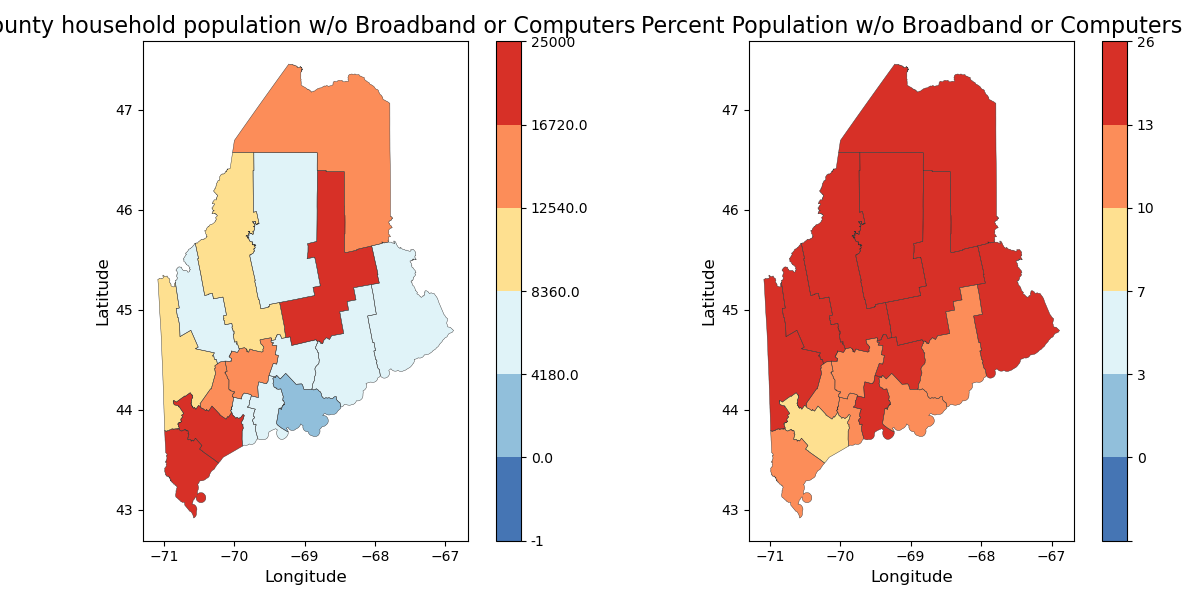
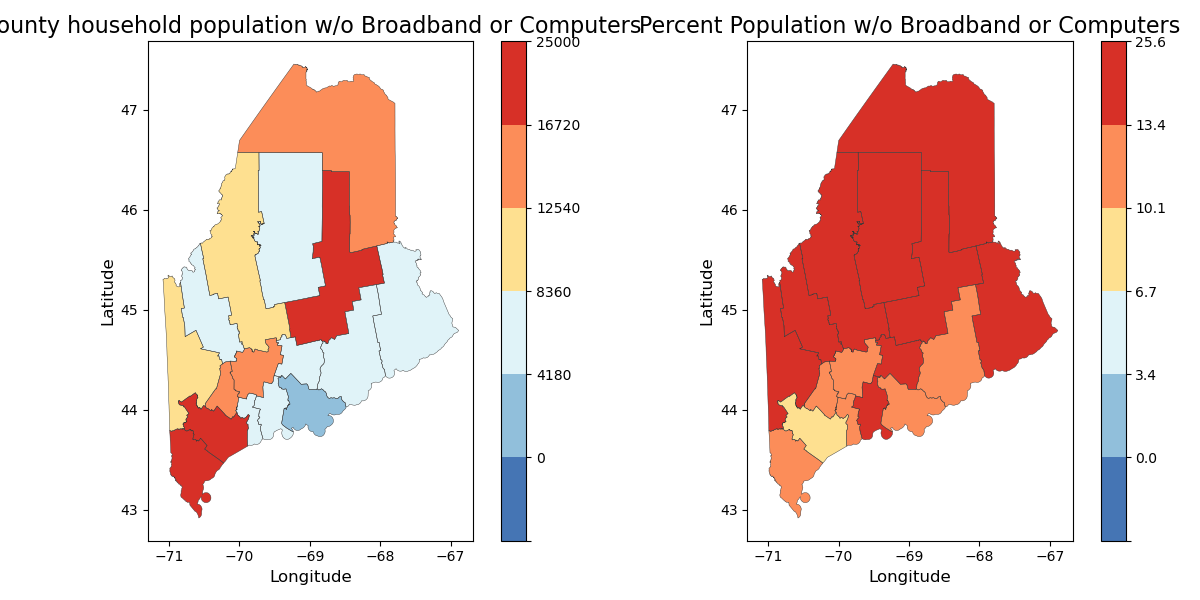
final color change

diff --git a/src/make_county_plots.py b/src/make_county_plots.py
@@ -45,12 +45,12 @@ def make_plot(gpd_obj, plot_obj):
     color_bins_pop.append(max_val)  # Include the maximum value
     color_bins_pct = [i * interval2 for i in range(len(color_list)-1)]
     color_bins_pct.append(max_val2)  # Include the maximum value
-
+    
     # Add a negative lower boundary (adjust as needed)
     lower_boundary = -1
     color_bins_pop.insert(0, lower_boundary)
     color_bins_pct.insert(0, lower_boundary)
-    
+
     # Plotting combined data
     cmap_pop = mpl.colors.ListedColormap(color_list)
     norm_pop = mpl.colors.BoundaryNorm(color_bins_pop, cmap_pop.N)
@@ -66,9 +66,10 @@ def make_plot(gpd_obj, plot_obj):
     ax[0].set_ylabel('Latitude', fontsize=12)
     
     color_bins_pop_str = [str(round(value)) for value in color_bins_pop]
+    print(color_bins_pop_str)
     color_bins_pop_str[0] = ''
     colorbar = fig.colorbar(ax[0].collections[0], ax=ax[0])  # Assuming a single plot on the axes
-    colorbar.ax.set_yticklabels(color_bins_pop)  # Example: Set custom tick labels
+    colorbar.ax.set_yticklabels(color_bins_pop_str)  # Example: Set custom tick labels
     
     # Right side of fig plot details
     gpd_obj.plot(column=plot_obj[2], cmap=cmap_pct, norm=norm_pct, figsize=(8,8), ax=ax[1])
@@ -77,7 +78,7 @@ def make_plot(gpd_obj, plot_obj):
     ax[1].set_xlabel('Longitude', fontsize=12)
     ax[1].set_ylabel('Latitude', fontsize=12)
 
-    color_bins_pct_str = [str(round(value)) for value in color_bins_pct]
+    color_bins_pct_str = [str(round(value,1)) for value in color_bins_pct]
     color_bins_pct_str[0] = ''
     colorbar = fig.colorbar(ax[1].collections[0], ax=ax[1])  # Assuming a single plot on the axes
     colorbar.ax.set_yticklabels(color_bins_pct_str)  # Example: Set custom tick labels
